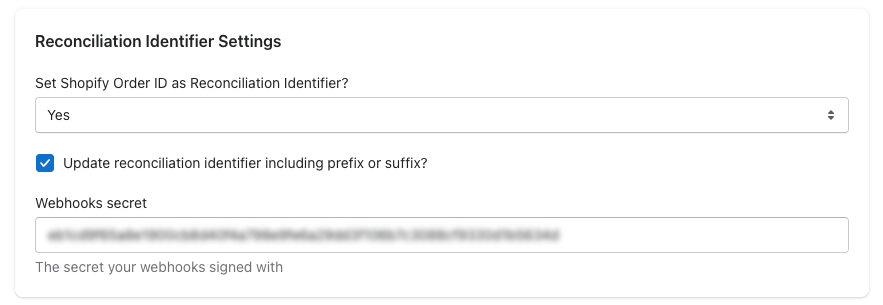
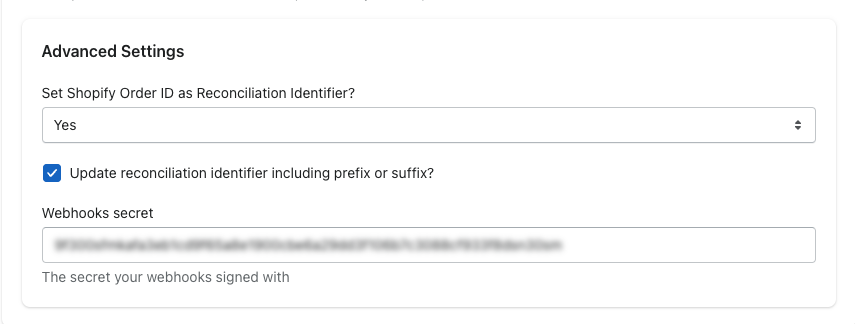
Add option to set unique reconciliation identifier

diff --git a/wiki.md b/wiki.md
@@ -54,6 +54,8 @@ Installing these apps will enable the web shop to handle payments through AltaPa
 
     * [Configuring the Payment Methods](#configuring-the-payment-methods)
 
+    * [Set Unique ID as reconciliation identifier](#set-unique-id-as-reconciliation-identifier)
+
     * [Set Shopify Order ID as reconciliation identifier - Optional](#set-shopify-order-id-as-reconciliation-identifier---optional)
 
  - [Styling](#styling)
@@ -358,6 +360,22 @@ Having configured the AltaPay payments, you now need to configure the app.
 
 **Requirements for Specific Payment Methods**
 
+### Set Unique ID as reconciliation identifier
+
+By default, the Shopify payment ID is used as the reconciliation identifier on AltaPay. If you want to use unique ID as the reconciliation identifier, please follow the steps below.
+
+1. Navigate to the **Admin** page using the URL.
+2. Select **Settings** and then **Payments**.
+3. Scroll down to **Additional payment methods** and click AltaPay payment method.
+4. Click on **Manage** from **More actions** dropdown.
+5. This will redirect you to **AltaPay Payments App** configuration page.
+6. Select **Settings** at the top of the window.
+7. Scroll down to **Reconciliation Identifier Settings** section.
+8. Set the option from **Set unique ID as Reconciliation Identifier?** dropdown to **Yes**
+9. Click **Save**
+
+    ![unique_identifier](/Docs/configuration/unique_identifier.png)
+
 ### Set Shopify Order ID as reconciliation identifier - Optional
 
 By default, the Shopify payment ID is used as the reconciliation identifier on AltaPay. If you want to use the Shopify order ID as the reconciliation identifier, please follow the steps below.
@@ -414,7 +432,7 @@ Once the Order creation webhook is created, follow the steps below to enable the
 4. Click on **Manage** from **More actions** dropdown.
 5. This will redirect you to **AltaPay Payments App** configuration page.
 6. Select **Settings** at the top of the window.
-7. Scroll down to **Reconciliation Identifier Settings** section.
+7. Scroll down to **Advanced Settings** in **Reconciliation Identifier Settings** section.
 8. Set the option from **Set Shopify Order ID as Reconciliation Identifier?** dropdown to **Yes**
 9. Enable **Update reconciliation identifier including prefix or suffix?** option, if you want to include prefix or suffix.
 10. Enter **Webhooks secret**. You can copy this value by navigating to **Settings** > **Notifications** > **Webhooks** and copying the value where it says "Your webhooks will be signed with".

diff --git a/CHANGELOG.md b/CHANGELOG.md
@@ -1,6 +1,10 @@
 # Changelog
 All notable changes to this project will be documented in this file.
 
+## [app-1.3.9]
+
+- Add option to set unique reconciliation identifier.
+
 ## [app-1.3.8]
 
 - Add option to update reconciliation identifier.
